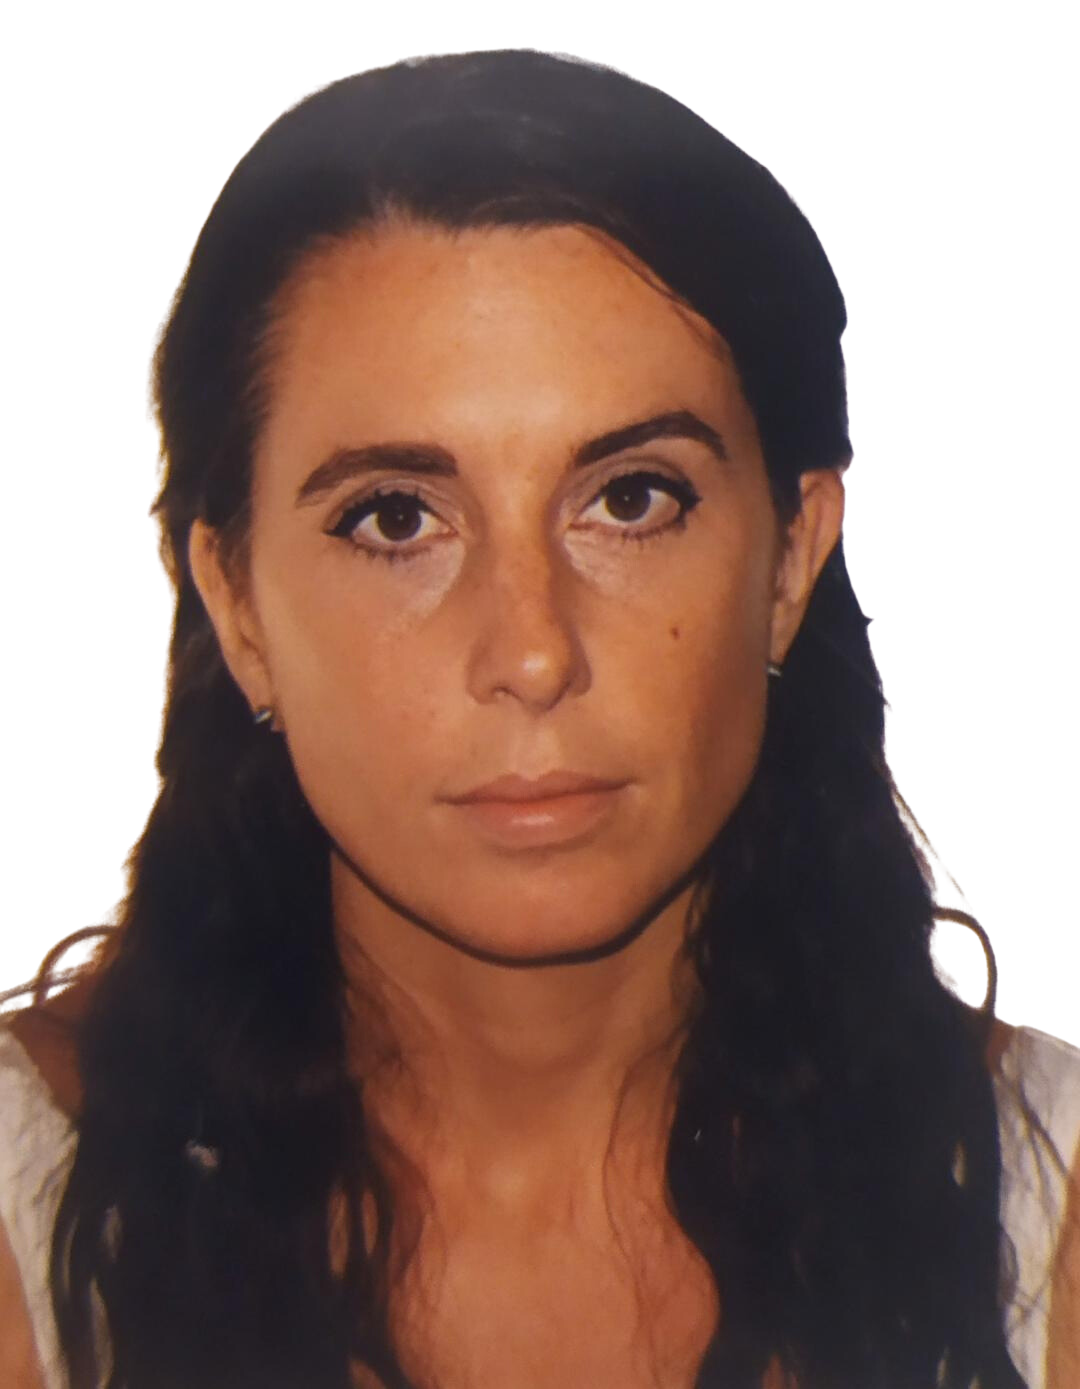
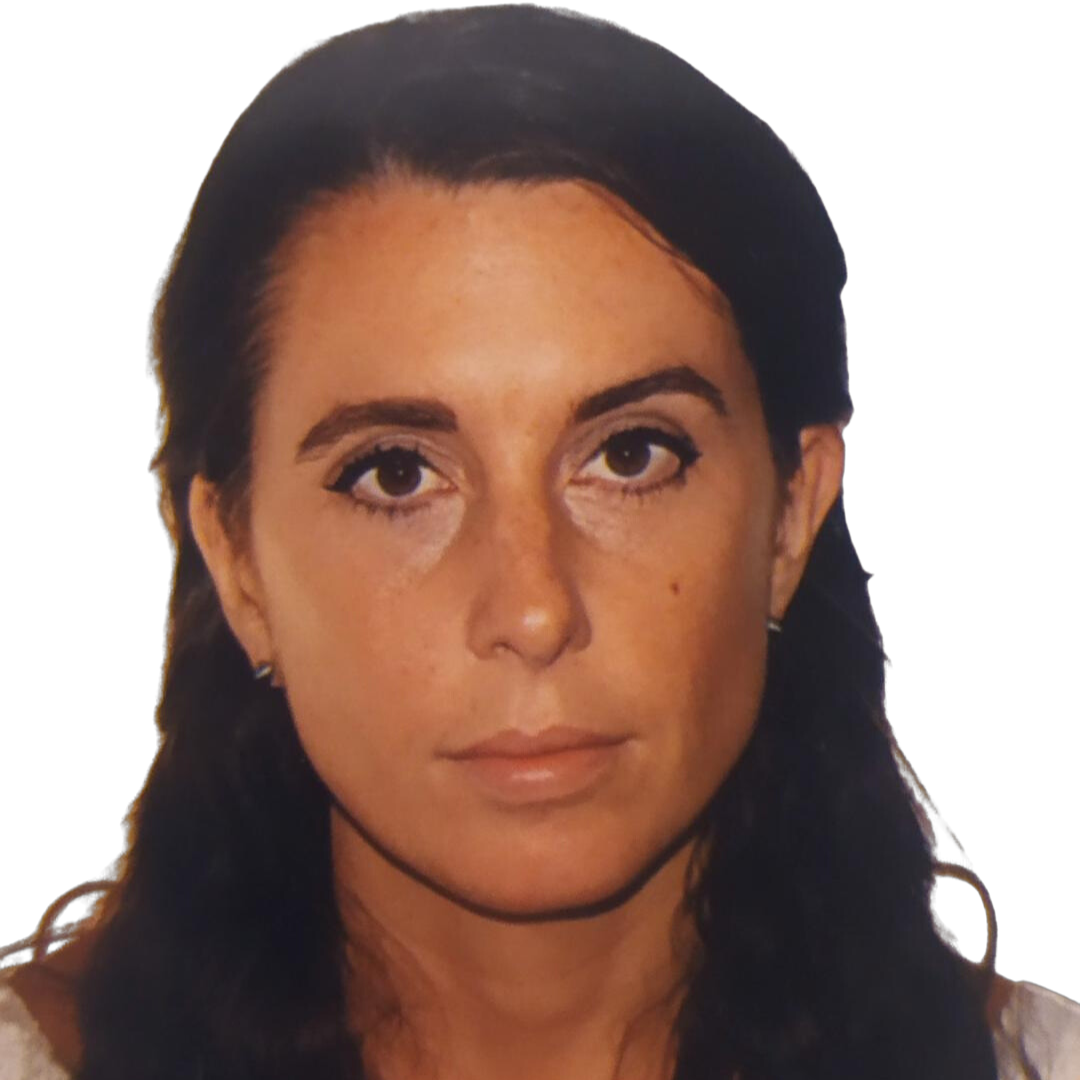
añado css header mobile y desktop y fotos de igual dimensión

diff --git a/coderdebora.html b/coderdebora.html
@@ -11,9 +11,9 @@
 <body>
     <header class="header">
         <img src="assets/Logo_Empresa 1.svg" class="logo_img" alt="logo Femovation">
-        <nav>
+        <nav class="navbar">
             <a href="index.html">Somos</a> 
-            <a href="contact.html" role="button"> Contáctanos</a> 
+            <a  class="contactbutton" href="contact.html" role="button"> Contáctanos</a> 
         </nav>
     </header>
 
@@ -42,35 +42,35 @@
     <footer>
         <section>
             <div class="profilecoder">
-                <a href="#" class="link_img_coder"><img src="/assets/images/alicia.png" alt="Alicia Ontiveros photo"></a> 
+                <a href="#" class="link_img_coder"><img class="photocoders" src="/assets/images/alicia.png" alt="Alicia Ontiveros photo"></a> 
                 <h5>Alicia Ontiveros</h5>
                 <h6>Desarolladora web</h6> 
                 <a href="www.linkedin.com/in/alicia-ontiveros-escudero"><iconify-icon icon="bi:linkedin"></iconify-icon></a> 
             </div>
 
             <div class="profilecoder">
-                <a href="#" class="link_img_coder"><img src="/assets/images/debora.png" alt="Débora Menezes photo"></a> 
+                <a href="#" class="link_img_coder"><img class="photocoders" src="/assets/images/debora.png" alt="Débora Menezes photo"></a> 
                 <h5>Débora Menezes</h5>
                 <h6>Desarolladora web</h6> 
                 <a href="https://www.linkedin.com/in/debora-menezes-borges/"><iconify-icon icon="bi:linkedin"></iconify-icon></a> 
             </div>
 
             <div class="profilecoder">
-                <a href="#" class="link_img_coder"><img src="/assets/images/grecia.png" alt="Grecia Landazuri photo"></a> 
+                <a href="#" class="link_img_coder"><img class="photocoders" src="/assets/images/grecia.png" alt="Grecia Landazuri photo"></a> 
                 <h5>Grecia Landazuri</h5>
                 <h6>Desarolladora web</h6> 
                 <a href="https://www.linkedin.com/in/grecialh/"><iconify-icon icon="bi:linkedin"></iconify-icon></a>
             </div>
 
             <div class="profilecoder">
-                <a href="#" class="link_img_coder"><img src="/assets/images/laura.png" alt="Laura Artaza photo"></a>
+                <a href="#" class="link_img_coder"><img class="photocoders" src="/assets/images/laura.png" alt="Laura Artaza photo"></a>
                 <h5>Laura Artaza</h5>
                 <h6>Desarolladora web</h6> 
                 <a href="https://www.linkedin.com/in/laura-artaza-fullstack-developer/"><iconify-icon icon="bi:linkedin"></iconify-icon></a>
             </div>
     
             <div class="profilecoder">
-                <a href="#" class="link_img_coder"><img src="/assets/images/rosalia.png" alt="Rosalia Bravo photo"></a> 
+                <a href="#" class="link_img_coder"><img class="photocoders" src="/assets/images/rosalia.png" alt="Rosalia Bravo photo"></a> 
                 <h5>Rosalía Bravo</h5>
                 <h6>Desarolladora web</h6> 
                 <a href="linkedin.com/in/rosalia-bravo-valencia-a6618b34"><iconify-icon icon="bi:linkedin"></iconify-icon></a> 

diff --git a/styles/headerfooterstyle.css b/styles/headerfooterstyle.css
@@ -19,24 +19,28 @@
 
 body{
   font-family:'Jost', sans-serif;
+  font-weight: 400;
   margin: 0;
 }
 
-header{
+.header{
   background-color: var(--pink);
   display: flex;
   justify-content: center;
   align-items: center;
-  padding: 1%;
   width: 100%;
+  height: 99px;
 }
 
-header img{
+.logo_img{
   display: flex;
   justify-content: center;
+  width: 178px;
+  
+  
 }
 
-nav{
+.navbar{
   display: none;
 }
 
@@ -45,26 +49,88 @@ footer{
 }
 
 footer section{
-  background-color: var(--purple);
+  background-color: var(--pink);
   display:flex;
+  flex-direction: column;
+  width: 100%;
+}
+
+.profilecoder{
+  display: flex;
+  flex-direction: column;
+  align-items: center;
+  width: 20%;
+  border: #000 solid 1px;
+}
+
+.link_img_coder{
+  width: 170px;
+  height: 170px;
+}
+
+.photocoders{
+  width: 100%;
+  border-radius: 50%;
+  background-color: var(--purple);
+}
+
+.profilecoder h5{
+  color: var(--white);
+  font-weight: 400;
+  font-size: 20px;
+}
+
+.profilecoder h6{
+  color: var(--dark-purple);
+  font-weight: 400;
+  font-size: 20px;
+}
+
+.footer_mobile_section{
+ background-color: var(--purple);
+ display: flex;
+ justify-content: center;
+ color: var(--white);
 }
 
 
 
 
 
+
 @media screen and (min-width:1200px){
-  header{
+  .header{
     display: flex;
     justify-content: space-between;
   }
   
-  nav{
-    display: block;
+  .navbar{
     display: flex;
-    justify-content:space-around;
     color: var(--white);
+    justify-content: space-around;
+    width: 25%;
   } 
+
+  .navbar a{
+    display: flex;
+    align-items: center;
+    justify-content: space-evenly;
+    
+  }
+
+  .contactbutton{
+    width: 157.7px;
+    height: 50px;
+    background-color: var(--mauve);
+    border: var(--white) solid 0.5px;
+    border-radius: 50px;
+    display: flex;
+    align-items: center;
+  }
+
+  .logo_img{
+    margin-left: 2%;
+  }
 }
 
 
